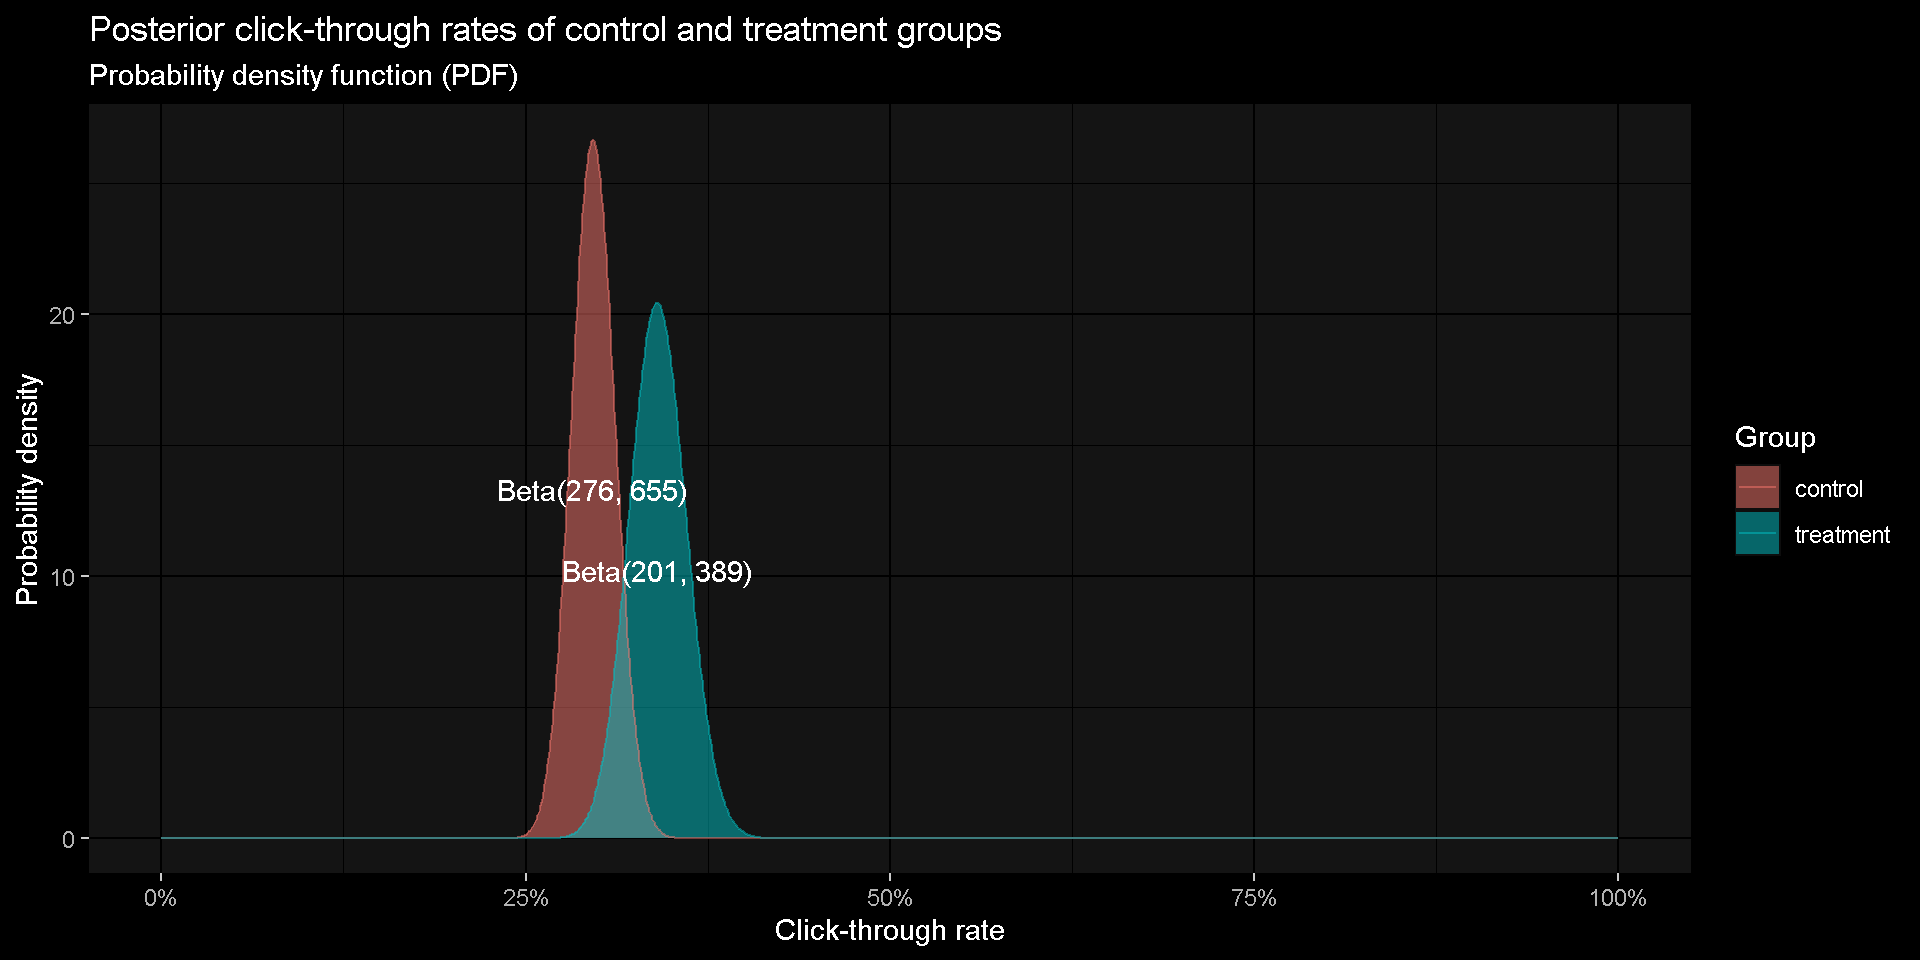
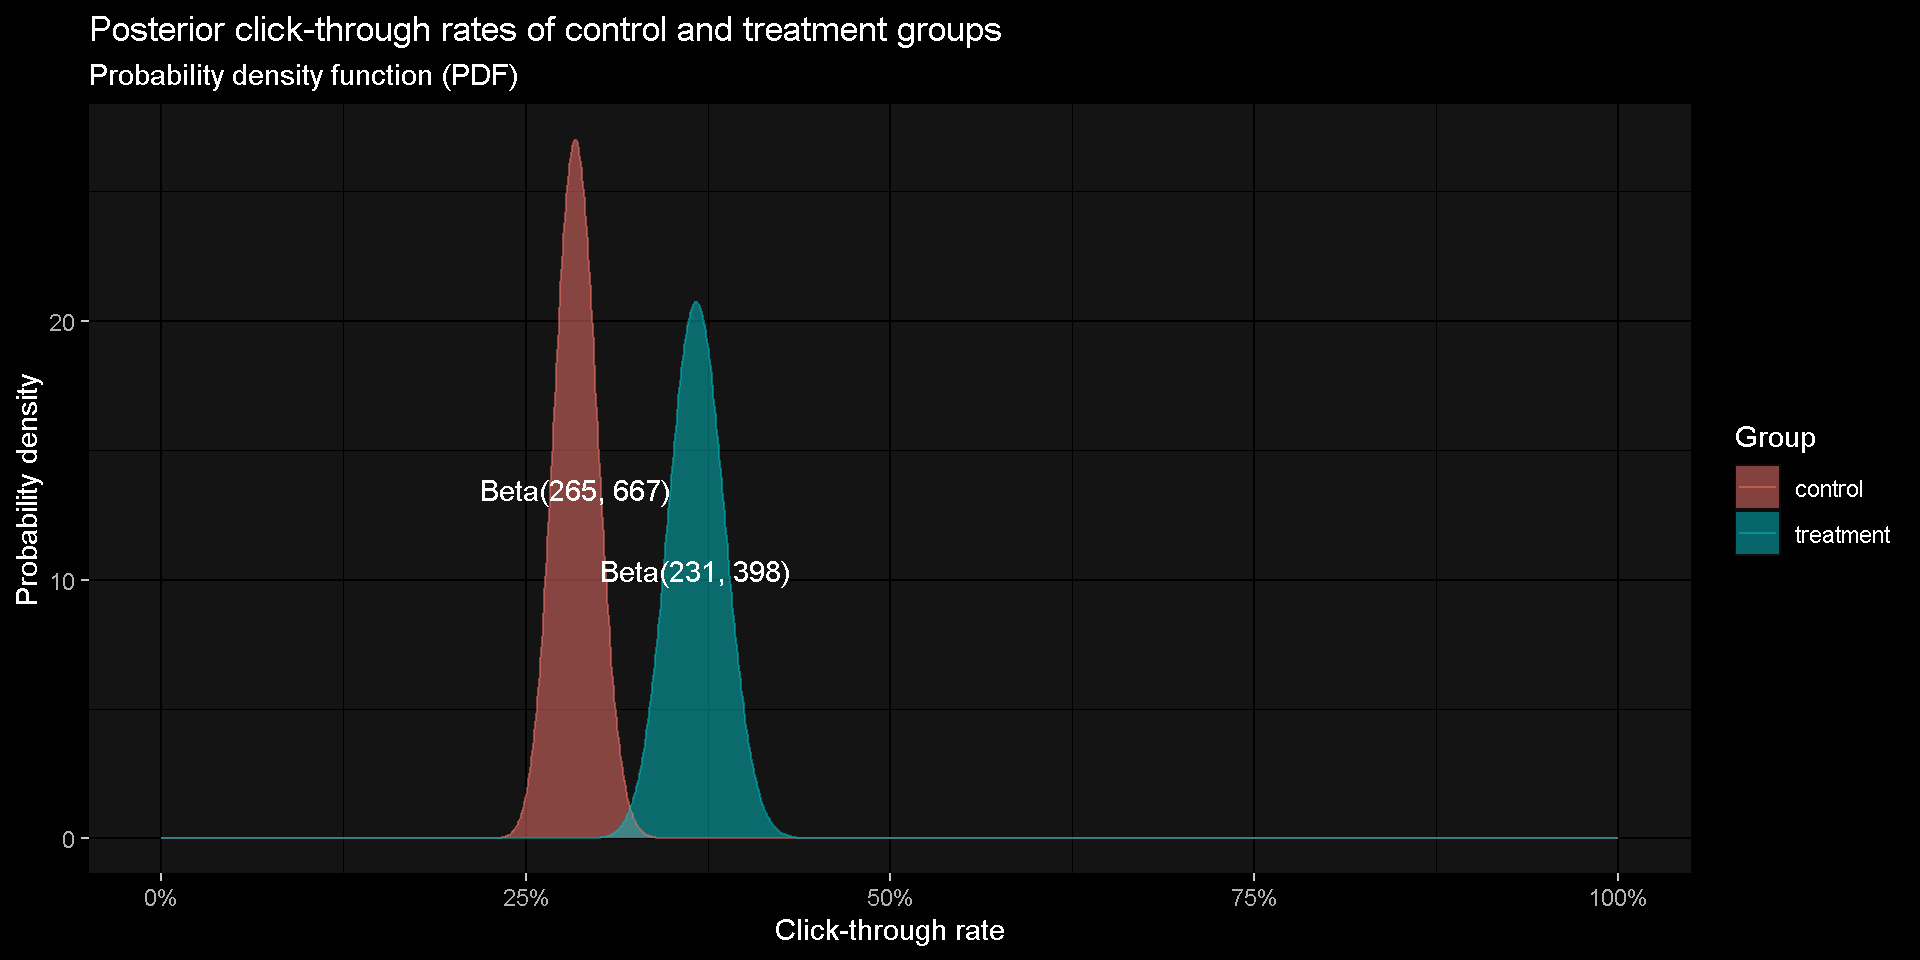
Adjust layout

Changed region(s): [[0.25, 0.1562, 0.4062, 0.875]]

diff --git a/bayes-ab-testing.html b/bayes-ab-testing.html
@@ -514,10 +514,18 @@
 <h2>Something even more informative</h2>
 <div class="cell">
 <div class="cell-output-display">
-<p><img data-src="bayes-ab-testing_files/figure-revealjs/unnamed-chunk-4-1.png" width="960"></p>
+<p><img data-src="bayes-ab-testing_files/figure-revealjs/unnamed-chunk-4-1.png" width="1056"></p>
 </div>
 </div>
-
+<div class="columns">
+<div class="column" style="width:75%;">
+<p>The shape parameters (<code>shape1</code> and <code>shape2</code>) of the Beta distribution can be considered counts of <strong>successes</strong> and <strong>failures</strong>, respectively. Therefore, the mean probability of success (i.e.&nbsp;average click-through rate) can be calculated by this formula:</p>
+</div><div class="column" style="width:25%;">
+<p><span class="math display">\[
+\frac{shape1}{shape1 + shape2}
+\]</span></p>
+</div>
+</div>
 <aside class="notes">
 <p>The shape parameters are actually slightly more than the count of successes and failures, i.e.&nbsp;<span class="math inline">\(successes = \alpha - 1\)</span> and <span class="math inline">\(failures = \beta - 1\)</span>, or <span class="math inline">\(successes = \alpha - 0.5\)</span> and <span class="math inline">\(failures = \beta - 0.5\)</span> if using Jeffreys prior.</p>
 <style type="text/css">
@@ -531,17 +539,7 @@
           overflow: hidden!important;
           display:block!important;
       }</style></aside>
-<aside><div>
-<div class="columns">
-<div class="column" style="width:80%;">
-<p>The shape parameters (<code>shape1</code> and <code>shape2</code>) of the Beta distribution can be thought of as counts of <strong>successes</strong> and <strong>failures</strong>, respectively. Therefore, the mean probability of success (i.e.&nbsp;average click-through rate) is simply calculated with this formula:</p>
-</div><div class="column" style="width:20%;">
-<p><span class="math display">\[
-\frac{shape1}{shape1 + shape2}
-\]</span></p>
-</div>
-</div>
-</div></aside></section>
+</section>
 <section id="lets-say-weve-settled-on-this" class="slide level2 smaller">
 <h2>Let’s say we’ve settled on this:</h2>
 <div class="cell">
@@ -691,17 +689,17 @@
 <tbody>
 <tr class="odd">
 <td style="text-align: left;">control</td>
-<td style="text-align: right;">82</td>
-<td style="text-align: right;">30</td>
-<td style="text-align: right;">52</td>
-<td style="text-align: left;">36.6%</td>
+<td style="text-align: right;">62</td>
+<td style="text-align: right;">17</td>
+<td style="text-align: right;">45</td>
+<td style="text-align: left;">27.4%</td>
 </tr>
 <tr class="even">
 <td style="text-align: left;">treatment</td>
-<td style="text-align: right;">73</td>
-<td style="text-align: right;">22</td>
-<td style="text-align: right;">51</td>
-<td style="text-align: left;">30.1%</td>
+<td style="text-align: right;">97</td>
+<td style="text-align: right;">32</td>
+<td style="text-align: right;">65</td>
+<td style="text-align: left;">33.0%</td>
 </tr>
 </tbody>
 </table>
@@ -761,13 +759,13 @@
 </tr>
 <tr class="even">
 <td style="text-align: left;">clicked</td>
-<td style="text-align: right;">30</td>
-<td style="text-align: right;">22</td>
+<td style="text-align: right;">17</td>
+<td style="text-align: right;">32</td>
 </tr>
 <tr class="odd">
 <td style="text-align: left;">posterior_shape1</td>
-<td style="text-align: right;">150</td>
-<td style="text-align: right;">49</td>
+<td style="text-align: right;">137</td>
+<td style="text-align: right;">59</td>
 </tr>
 </tbody>
 </table>
@@ -795,13 +793,13 @@
 </tr>
 <tr class="even">
 <td style="text-align: left;">not_clicked</td>
-<td style="text-align: right;">52</td>
-<td style="text-align: right;">51</td>
+<td style="text-align: right;">45</td>
+<td style="text-align: right;">65</td>
 </tr>
 <tr class="odd">
 <td style="text-align: left;">posterior_shape2</td>
-<td style="text-align: right;">340</td>
-<td style="text-align: right;">111</td>
+<td style="text-align: right;">333</td>
+<td style="text-align: right;">125</td>
 </tr>
 </tbody>
 </table>
@@ -906,45 +904,45 @@
 </thead>
 <tbody>
 <tr class="odd">
-<td style="text-align: right;">0.318</td>
-<td style="text-align: right;">0.371</td>
-<td style="text-align: right;">0.168</td>
+<td style="text-align: right;">0.294</td>
+<td style="text-align: right;">0.341</td>
+<td style="text-align: right;">0.161</td>
 <td style="text-align: left;">TRUE</td>
 </tr>
 <tr class="even">
-<td style="text-align: right;">0.326</td>
-<td style="text-align: right;">0.364</td>
-<td style="text-align: right;">0.117</td>
+<td style="text-align: right;">0.303</td>
+<td style="text-align: right;">0.344</td>
+<td style="text-align: right;">0.137</td>
 <td style="text-align: left;">TRUE</td>
 </tr>
 <tr class="odd">
-<td style="text-align: right;">0.327</td>
-<td style="text-align: right;">0.370</td>
-<td style="text-align: right;">0.131</td>
+<td style="text-align: right;">0.310</td>
+<td style="text-align: right;">0.368</td>
+<td style="text-align: right;">0.189</td>
 <td style="text-align: left;">TRUE</td>
 </tr>
 <tr class="even">
-<td style="text-align: right;">0.328</td>
+<td style="text-align: right;">0.309</td>
+<td style="text-align: right;">0.347</td>
+<td style="text-align: right;">0.123</td>
+<td style="text-align: left;">TRUE</td>
+</tr>
+<tr class="odd">
+<td style="text-align: right;">0.299</td>
+<td style="text-align: right;">0.377</td>
+<td style="text-align: right;">0.260</td>
+<td style="text-align: left;">TRUE</td>
+</tr>
+<tr class="even">
+<td style="text-align: right;">0.288</td>
 <td style="text-align: right;">0.350</td>
-<td style="text-align: right;">0.067</td>
+<td style="text-align: right;">0.214</td>
 <td style="text-align: left;">TRUE</td>
 </tr>
 <tr class="odd">
-<td style="text-align: right;">0.327</td>
-<td style="text-align: right;">0.359</td>
-<td style="text-align: right;">0.098</td>
-<td style="text-align: left;">TRUE</td>
-</tr>
-<tr class="even">
-<td style="text-align: right;">0.315</td>
-<td style="text-align: right;">0.352</td>
-<td style="text-align: right;">0.117</td>
-<td style="text-align: left;">TRUE</td>
-</tr>
-<tr class="odd">
-<td style="text-align: right;">0.302</td>
-<td style="text-align: right;">0.363</td>
-<td style="text-align: right;">0.202</td>
+<td style="text-align: right;">0.297</td>
+<td style="text-align: right;">0.336</td>
+<td style="text-align: right;">0.129</td>
 <td style="text-align: left;">TRUE</td>
 </tr>
 </tbody>
@@ -996,12 +994,12 @@
 <div class="cell">
 <div class="cell-output cell-output-stdout">
 <pre><code>    control         treatment          uplift         beats_control  
- Min.   :0.2797   Min.   :0.3049   Min.   :-0.08886   Mode :logical  
- 1st Qu.:0.3122   1st Qu.:0.3465   1st Qu.: 0.07925   FALSE:5867     
- Median :0.3185   Median :0.3534   Median : 0.10968   TRUE :994133   
- Mean   :0.3185   Mean   :0.3535   Mean   : 0.11065                  
- 3rd Qu.:0.3248   3rd Qu.:0.3604   3rd Qu.: 0.14105                  
- Max.   :0.3649   Max.   :0.4040   Max.   : 0.36228                  </code></pre>
+ Min.   :0.2550   Min.   :0.3031   Min.   :-0.03964   Mode :logical  
+ 1st Qu.:0.2905   1st Qu.:0.3443   1st Qu.: 0.15030   FALSE:30       
+ Median :0.2966   Median :0.3511   Median : 0.18340   TRUE :999970   
+ Mean   :0.2967   Mean   :0.3511   Mean   : 0.18455                  
+ 3rd Qu.:0.3028   3rd Qu.:0.3579   3rd Qu.: 0.21760                  
+ Max.   :0.3392   Max.   :0.3970   Max.   : 0.46371                  </code></pre>
 </div>
 </div>
 <p>What is the probability that the CTR of the treatment is greater than that of control?</p>
@@ -1013,7 +1011,7 @@
 <span id="cb3-4"><a href="#cb3-4"></a>) <span class="sc">%&gt;%</span> scales<span class="sc">::</span><span class="fu">percent</span>(<span class="fl">0.01</span>)</span></code><button title="Copy to Clipboard" class="code-copy-button"><i class="bi"></i></button></pre></div>
 </div><div class="column fragment">
 <div class="cell-output cell-output-stdout">
-<pre><code>[1] "99.41%"</code></pre>
+<pre><code>[1] "100.00%"</code></pre>
 </div>
 </div>
 </div>
